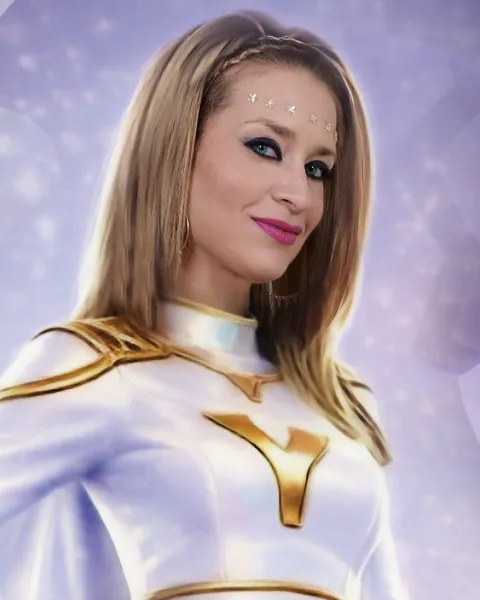
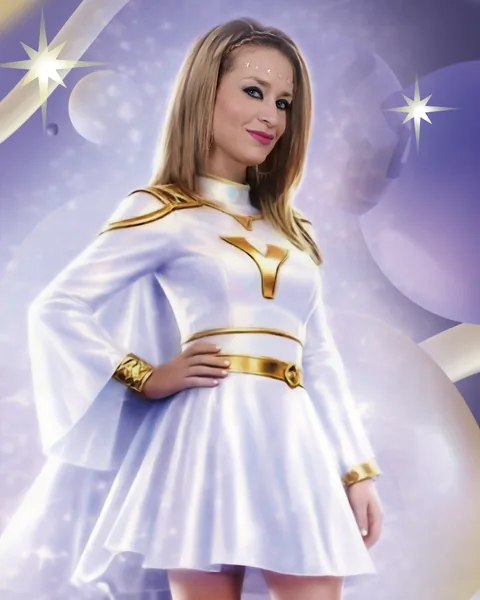
New hero image styled as arch

diff --git a/index.html b/index.html
@@ -83,7 +83,14 @@
   .price-chip strong{font-size:1.7rem;font-weight:800}
   .btns{display:flex;gap:12px;flex-wrap:wrap}
   .hero-img{position:relative;justify-self:center;width:min(400px,78%)}
-  .hero-img img{width:100%;aspect-ratio:4/5;object-fit:cover;border-radius:28px;box-shadow:0 30px 60px rgba(106,61,240,.32);border:6px solid #fff;background:#d9cffc}
+  .hero-img .frame{padding:8px;border-radius:999px 999px 34px 34px;background:linear-gradient(160deg,var(--pink),var(--purple) 55%,var(--teal));box-shadow:0 30px 60px rgba(106,61,240,.34)}
+  .hero-img img{width:100%;aspect-ratio:4/5;object-fit:cover;object-position:50% 20%;border-radius:999px 999px 28px 28px;background:#d9cffc;border:4px solid #fff}
+  .spark{position:absolute;font-size:1.7rem;line-height:1;animation:tw 3.2s ease-in-out infinite}
+  .spark.s1{inset:4% auto auto -6%;color:var(--gold)}
+  .spark.s2{inset:18% -7% auto auto;color:var(--teal);animation-delay:.9s;font-size:2.1rem}
+  .spark.s3{inset:auto -5% 16% auto;color:var(--pink);animation-delay:1.7s}
+  @keyframes tw{0%,100%{transform:scale(.75) rotate(0);opacity:.65}50%{transform:scale(1.15) rotate(18deg);opacity:1}}
+  @media (prefers-reduced-motion:reduce){.spark{animation:none}}
   .hero-img .sticker{position:absolute;inset:auto auto -16px -14px;background:var(--pink-d);color:#fff;font-weight:800;padding:10px 16px;border-radius:18px;transform:rotate(-5deg);box-shadow:var(--shadow);font-size:1rem}
 
   /* trust */
@@ -193,7 +200,8 @@
       </div>
     </div>
     <div class="hero-img">
-      <img src="img/yifat-hero-800.webp" srcset="img/yifat-hero-480.webp 480w, img/yifat-hero-800.webp 800w" sizes="(max-width:820px) 78vw, 400px" width="800" height="1000" fetchpriority="high" decoding="async" alt="יפעת הליצנית בתחפושת גיבורת על לבנה וזהובה, מחייכת למצלמה">
+      <div class="frame"><img src="img/yifat-hero-800.webp" srcset="img/yifat-hero-480.webp 480w, img/yifat-hero-800.webp 800w" sizes="(max-width:820px) 78vw, 400px" width="800" height="1000" fetchpriority="high" decoding="async" alt="יפעת הליצנית בתחפושת גיבורת על לבנה וזהובה, עומדת בפוזה עם יד על המותן"></div>
+      <span class="spark s1" aria-hidden="true">✦</span><span class="spark s2" aria-hidden="true">✦</span><span class="spark s3" aria-hidden="true">✦</span>
       <span class="sticker">100% ממליצים ⭐</span>
     </div>
   </div>
